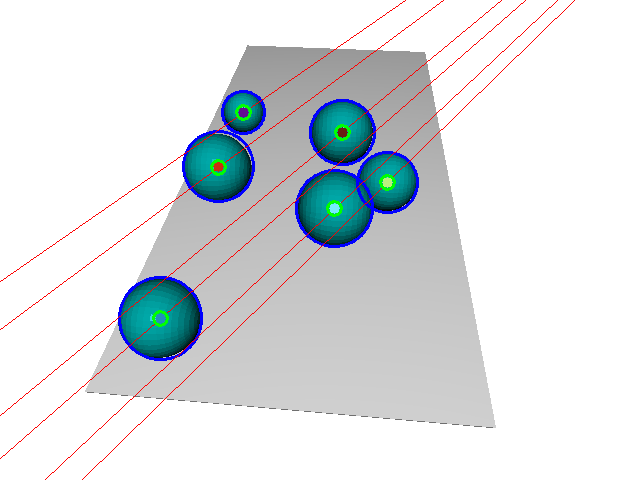
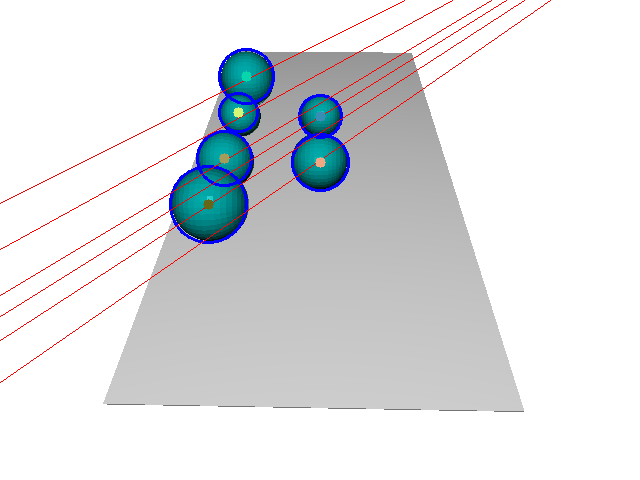
Calculate radius estimate using both reference and viewing VC images

diff --git a/CWII2425-v2.py b/CWII2425-v2.py
@@ -457,39 +457,6 @@ if __name__ == '__main__':
         point = np.matmul(H0_cw, P_hat)[:-1]
 
         estimated_centres.append(point)
-    
-    if show_on_image:
-        # Project 3D points onto reference VC and draw points onto image
-        for point in estimated_centres:
-            P_L = np.matmul(H0_wc, np.append(point, [1]))[:-1]
-            Z = P_L[2]
-            p_L = f * (P_L / Z)
-            p_hat_L = np.matmul(np.linalg.inv(M_L), p_L)
-
-            x0 = round(p_hat_L[0])
-            y0 = round(p_hat_L[1])
-            
-            image = cv2.imread('view0.png', 1)
-            colour = (0, 255, 0)
-            thickness = 2
-            cv2.circle(image, (x0, y0), 7, colour, thickness)
-            cv2.imwrite('view0.png', image)
-        
-        # Project 3D points onto viewing VC and draw points onto image
-        for point in estimated_centres:
-            P_R = np.matmul(H1_wc, np.append(point, [1]))[:-1]
-            Z = P_R[2]
-            p_R = f * (P_R / Z)
-            p_hat_R = np.matmul(np.linalg.inv(M_R), p_R)
-
-            x0 = round(p_hat_R[0])
-            y0 = round(p_hat_R[1])
-            
-            image = cv2.imread('view1.png', 1)
-            colour = (0, 255, 0)
-            thickness = 2
-            cv2.circle(image, (x0, y0), 7, colour, thickness)
-            cv2.imwrite('view1.png', image)
 
     ###################################
     '''
@@ -561,29 +528,31 @@ if __name__ == '__main__':
     '''
     ###################################
 
-    estimated_radii = []
+    # Method: For each matching circle pair in reference and viewing images, get corresponding 3D estimated point for the sphere
+    # and use perspective projection to calculate the radius of the sphere using the radius of the image circle
+    # (We obtain a radius estimate from both the reference and viewing images, so we take the average of both to get final radius estimate)
 
-    # For each circle detected in reference image, get corresponding 3D estimated point
-    # and use perspective projection to calculate the radius of the sphere
-    for i, circle in enumerate(reference_circles):
-        point = estimated_centres[i]
 
-        # Bring 3D point into reference VC's coordinate space
+    # Given a circle (x0, y0, r) from an image, a 3D point (x, y, z) for the sphere centre,
+    # a matrix H_wc (that takes points from world to camera coordinate space), and matrix M
+    # (that takes a pixel point to an image plane point), return an estimate for the radius of the sphere
+    def estimate_radius(circle, point, H_wc, M):
+        # Bring estimated 3D point into camera's coordinate space using matrix H
         point = np.append(point, [1])
-        point = np.matmul(H0_wc, point)
+        point = np.matmul(H_wc, point)
 
         # Get pixel coords of sphere centre and pixel length of radius
         x0 = circle[0]
         y0 = circle[1]
         r = circle[2]
 
-        # Get pixel coords of point on edge of circle vertically above centre in pixel image
+        # Get pixel coords of point on edge of circle vertically above circle centre in pixel image
         x = x0
         y = y0 - r
         p_hat_L = np.array([x, y, f])
 
         # Get image plane coords of point on edge of circle
-        p_L = np.matmul(M_L, p_hat_L)
+        p_L = np.matmul(M, p_hat_L)
 
         # Get estimated radius of sphere
         y = p_L[1]
@@ -591,6 +560,25 @@ if __name__ == '__main__':
         Z = point[2]
         estimated_radius = abs(((Z * y) / f) - Y)
 
+        return estimated_radius
+    
+
+    estimated_radii = []
+
+    for i, match in enumerate(circle_matches):
+        # Get estimated 3D point
+        point = estimated_centres[i]
+
+        # Estimate radius using circle in reference VC image
+        circle_ref = match[0]
+        estimated_radius_ref = estimate_radius(circle_ref, point, H0_wc, M_L)
+
+        # Estimate radius using circle in viewing VC image
+        circle_view = match[1]
+        estimated_radius_view = estimate_radius(circle_view, point, H1_wc, M_R)
+
+        # Get mean radius
+        estimated_radius = (estimated_radius_ref + estimated_radius_view) / 2
         estimated_radii.append(estimated_radius)
 
     ###################################
